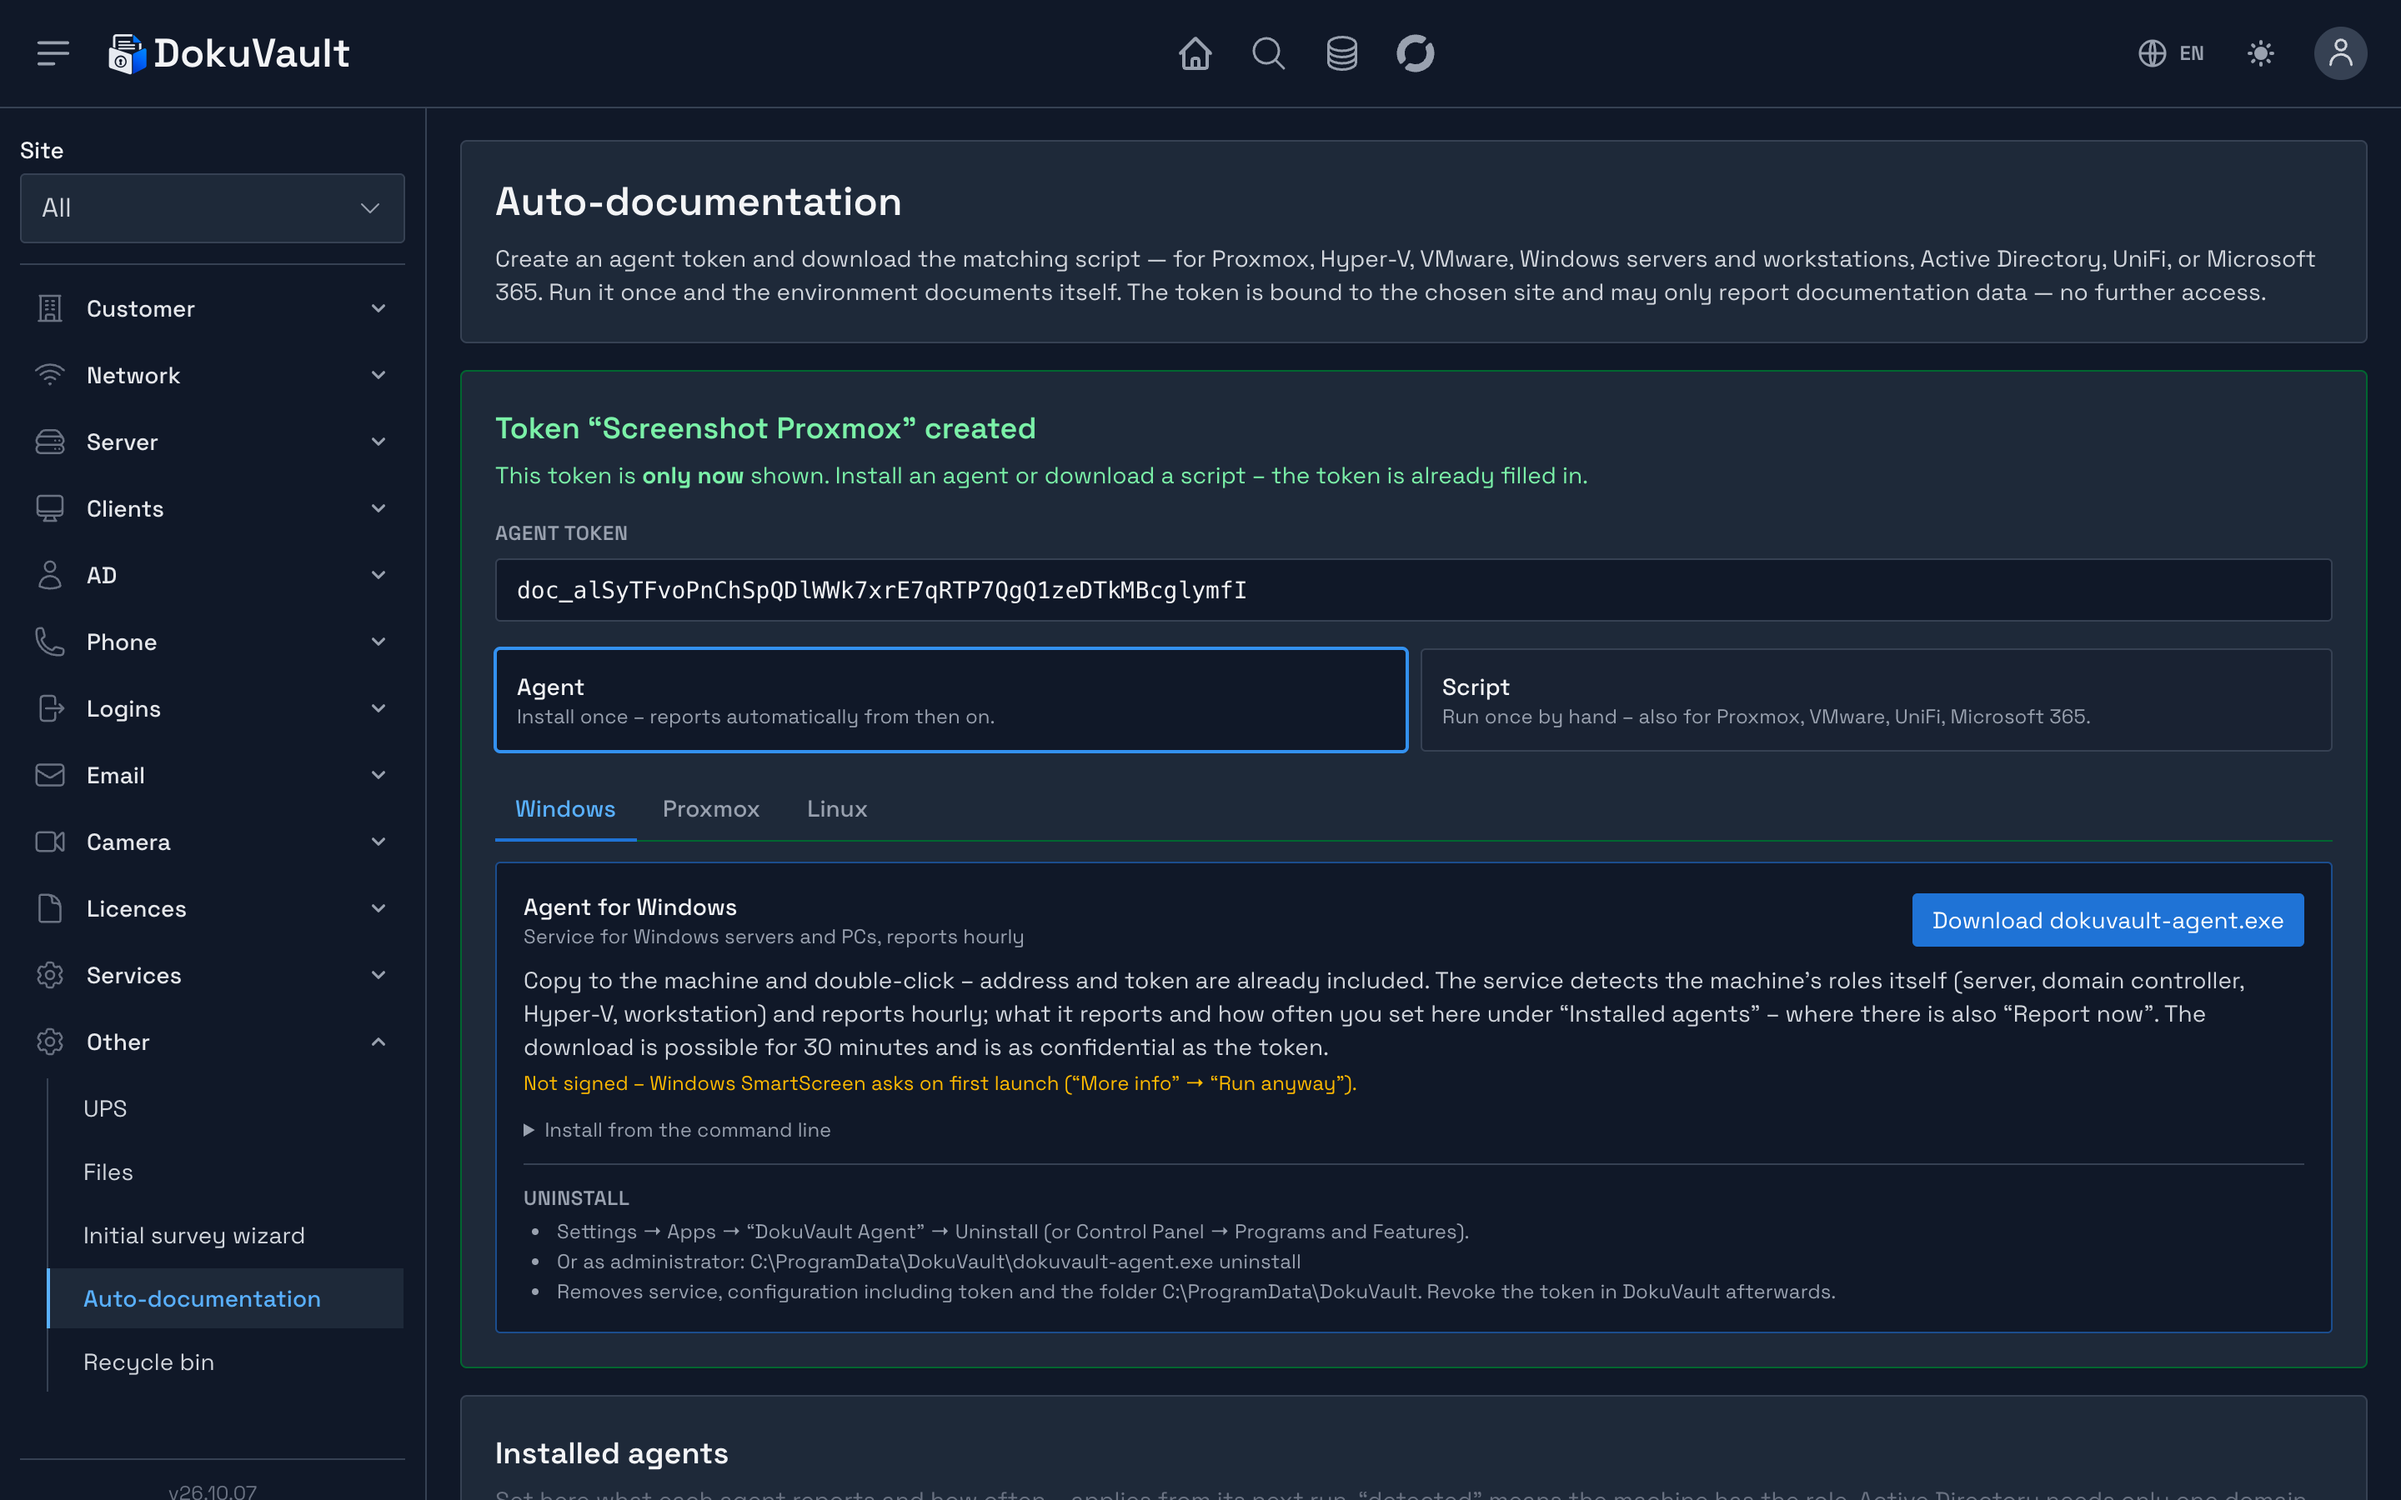
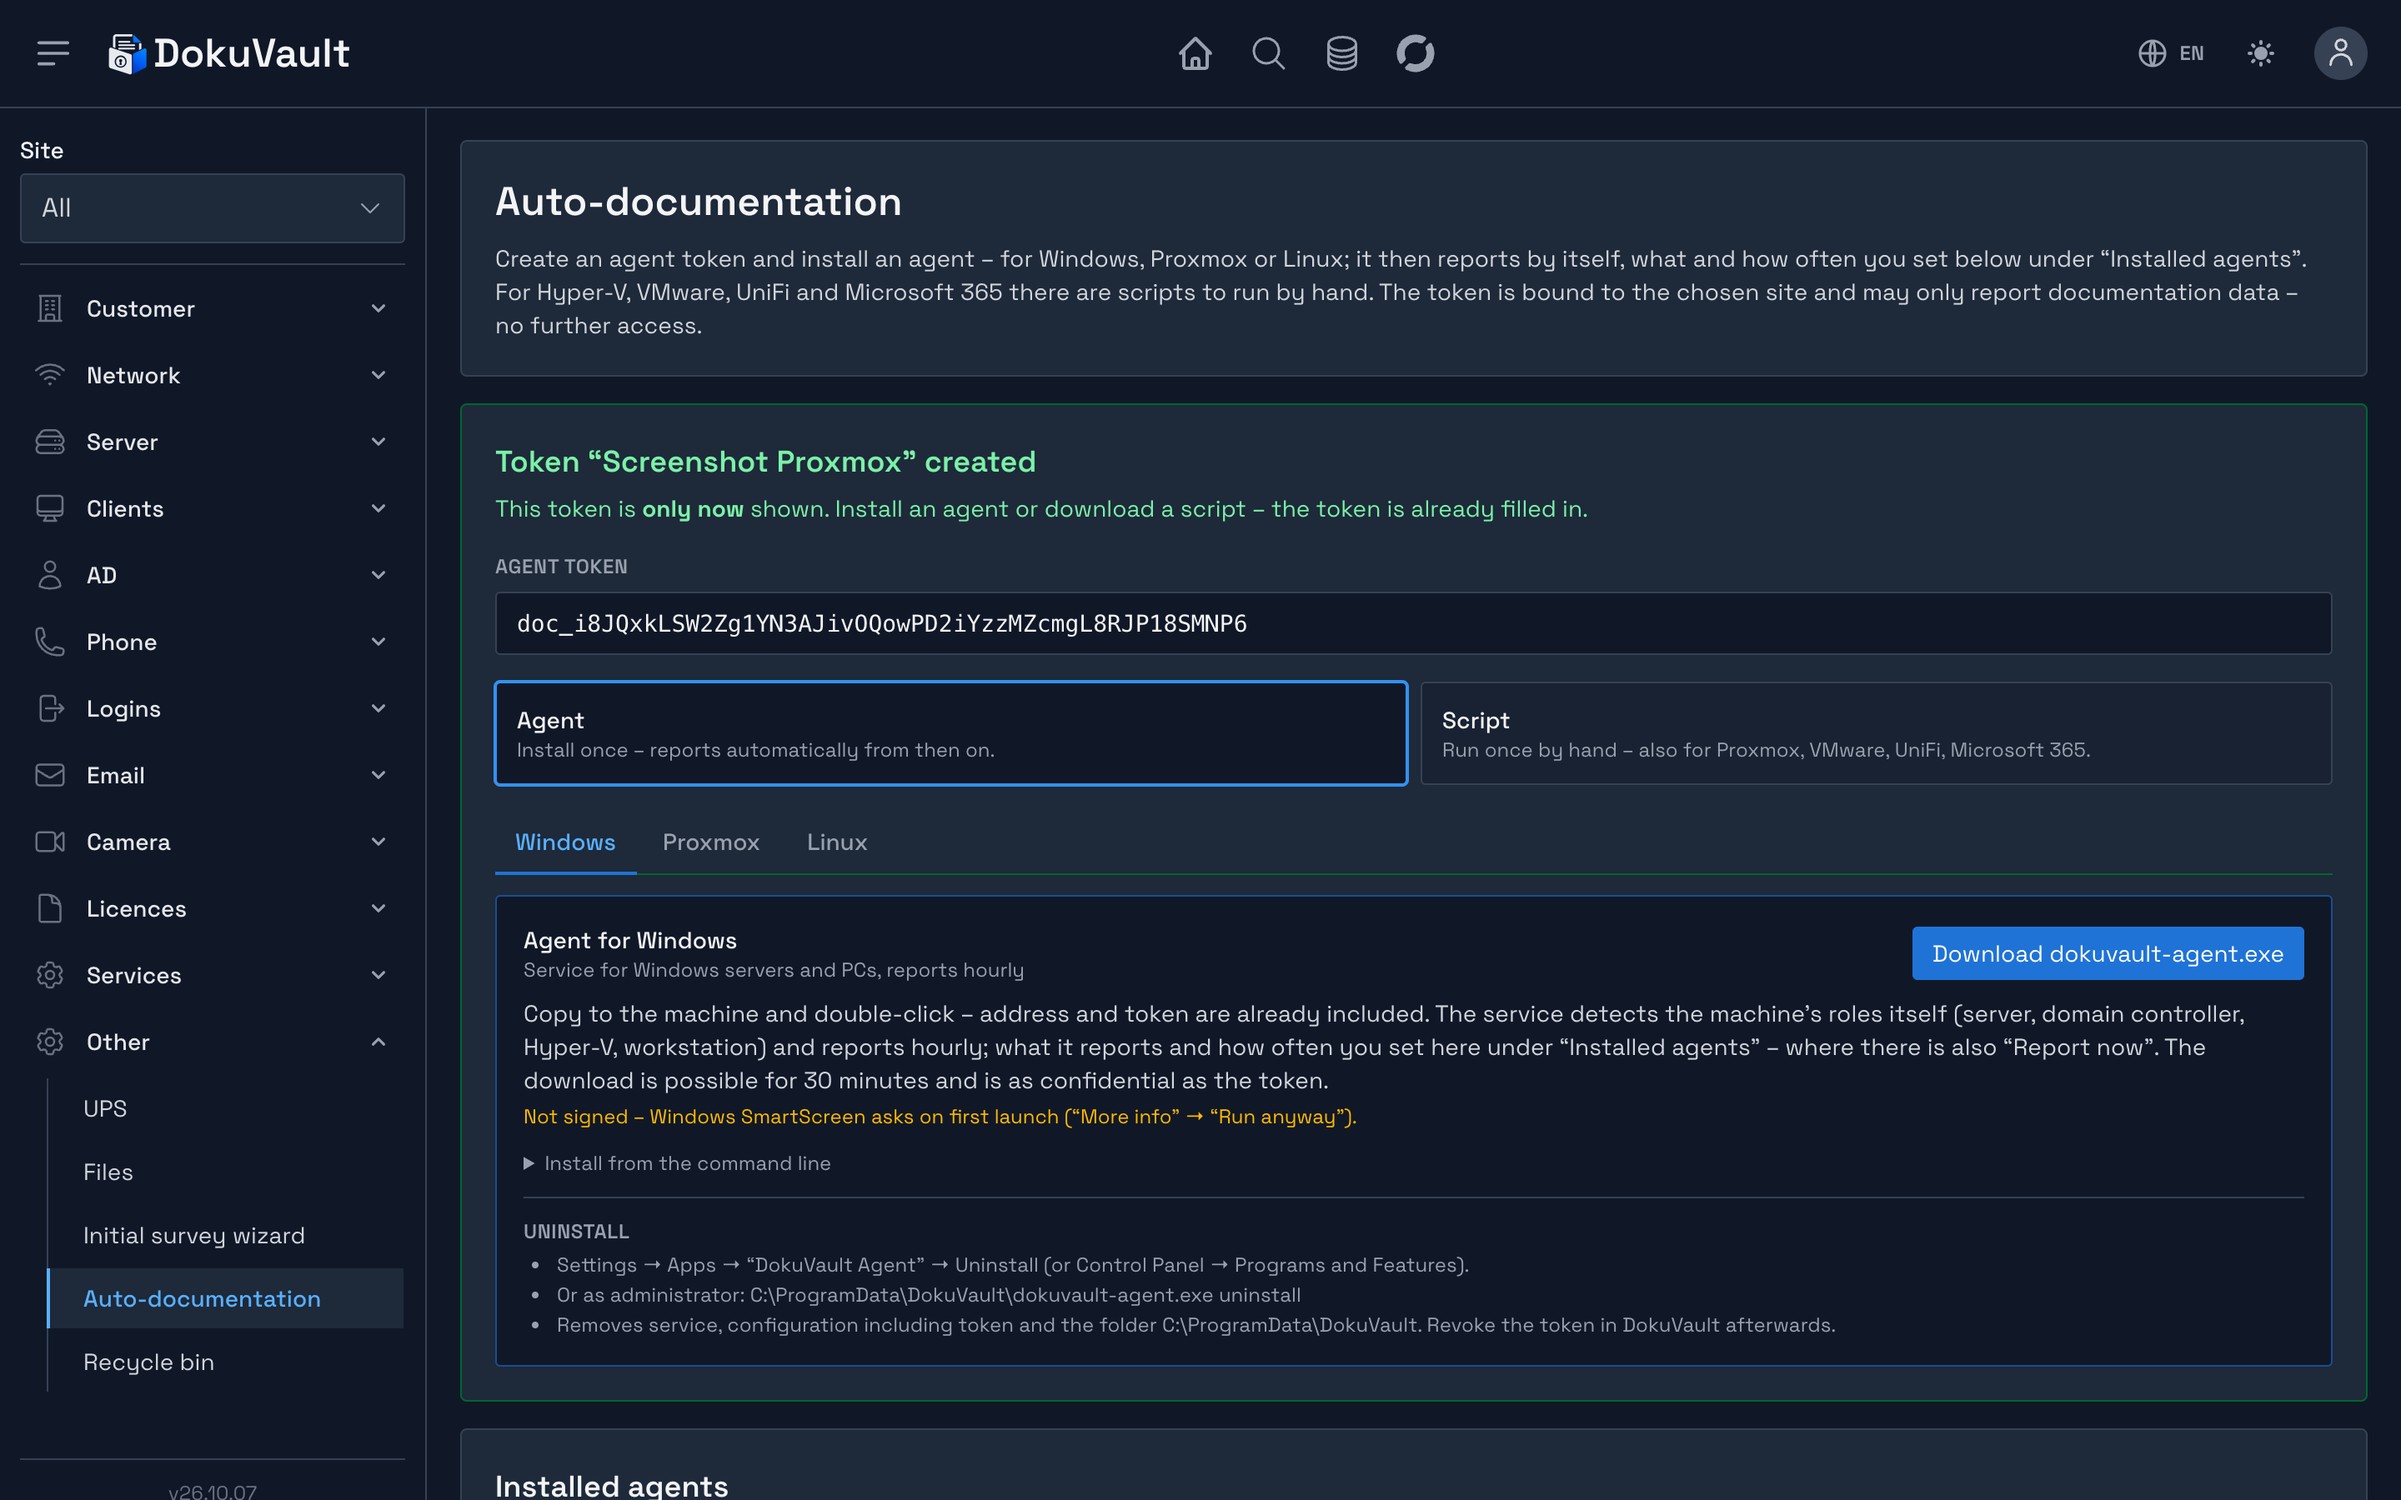
Agent-Seite: Einleitung beschreibt die installierten Agenten
Die Einleitung sagte noch "lade das passende Script herunter" und die
README-Bildunterschrift "ein Token, acht Scripts" - beides aus der Zeit
vor den installierten Agenten. Jetzt zuerst Windows/Proxmox/Linux-Agent,
dann die Scripte; Uebersetzung und die zwei Bilder der Agent-Seite neu.

Changed region(s): [[0.1875, 0.28, 0.9688, 0.9333], [0.2188, 0.1556, 0.9688, 0.2489], [0.1875, 0.9644, 0.9688, 1.0]]

diff --git a/resources/views/agent/index.blade.php b/resources/views/agent/index.blade.php
@@ -5,7 +5,7 @@
         <x-panel>
             <div class="text-2xl font-CoconPro text-chathams-blue-800 dark:text-gray-100">{{ __('Auto-Dokumentation') }}</div>
             <p class="mt-2 text-sm text-gray-600 dark:text-gray-300">
-                {{ __('Erzeuge einen Agent-Token und lade das passende Script herunter – für Proxmox, Hyper-V, VMware, Windows-Server und -Arbeitsplatzrechner, Active Directory, UniFi oder Microsoft 365. Einmal ausgeführt, dokumentiert sich die Umgebung selbst. Der Token ist an den gewählten Standort gebunden und darf ausschließlich Dokumentationsdaten melden – kein weiterer Zugriff.') }}
+                {{ __('Erzeuge einen Agent-Token und installiere einen Agenten – für Windows, Proxmox oder Linux; er meldet danach von selbst, was und wie oft du unten unter „Installierte Agenten“ festlegst. Für Hyper-V, VMware, UniFi und Microsoft 365 gibt es Scripte zum Ausführen von Hand. Der Token ist an den gewählten Standort gebunden und darf ausschließlich Dokumentationsdaten melden – kein weiterer Zugriff.') }}
             </p>
         </x-panel>
 

diff --git a/changelog.md b/changelog.md
@@ -11,6 +11,7 @@
 
 ### Changed
 
+- **Agent-Seite: Einleitung beschreibt die installierten Agenten** statt nur „Script herunterladen“; die Bildunterschrift im README („ein Token, acht Scripts“) ebenso.
 - **README und Screenshots überarbeitet.** Neue Abschnitte zu den installierten Agenten (Windows-Dienst, Proxmox, Linux – Rollen, Intervall, „Jetzt melden“, Ergebnisse, Selbst-Update, Signatur), Backup-Überwachung, Statistik, eigener Sicherung und den neuen Sicherheitsmerkmalen; sieben neue Bilder (installierte Agenten, Backups, API-Auslastung, Agenten, Datenwachstum, Backup-Einstellungen, AD-Gruppen), alle übrigen neu aufgenommen.
 - **Demo zeigt die neuen Funktionen.** Installierte Agenten (einer still, ein fehlgeschlagener Veeam-Job, eine alte Version), zwei Wochen Backup-Läufe samt Proxmox-vzdump-Job, eine Woche API-Statistik, 90 Tage Verlauf für Statistik, AD-Gruppen mit echten Namen und Mitgliedern statt Faker-Text, Zeitzone Europe/Berlin (`DemoAgentSeeder`, `DemoStatistikSeeder`).
 - **Installierte Agenten: Rollen und Knöpfe in zwei Zeilen.** Bei sechs Windows-Rollen brach „Speichern“ allein um und „Jetzt melden“/„Entfernen“ landeten darunter; jetzt stehen die Rollen oben und Intervall, „Speichern“, „Jetzt melden“ und „Entfernen“ immer in einer Reihe.

diff --git a/README.md b/README.md
@@ -67,7 +67,7 @@ MSPs lose time to scattered spreadsheets, stale wikis and “where did we write 
     <td width="50%"><img src="docs/screenshots/en/ipam.png" alt="IPAM"><br><sub><b>IPAM</b> – used, free and reserved addresses per VLAN, each range in its own colour</sub></td>
   </tr>
   <tr>
-    <td width="50%"><img src="docs/screenshots/en/autodoc.png" alt="Auto-documentation"><br><sub><b>Auto-documentation</b> – one token, eight scripts: create, run, done</sub></td>
+    <td width="50%"><img src="docs/screenshots/en/autodoc.png" alt="Auto-documentation"><br><sub><b>Auto-documentation</b> – one token for agents and scripts: create, install, done</sub></td>
     <td width="50%"><img src="docs/screenshots/en/certificates.png" alt="Certificates"><br><sub><b>SSL/TLS certificates</b> – with an expiry warning on the dashboard</sub></td>
   </tr>
   <tr>

diff --git a/README.de.md b/README.de.md
@@ -68,7 +68,7 @@ immer aktuell.
     <td width="50%"><img src="docs/screenshots/ipam.png" alt="IPAM"><br><sub><b>IPAM</b> – belegte, freie und reservierte Adressen je VLAN, jeder Bereich in eigener Farbe</sub></td>
   </tr>
   <tr>
-    <td width="50%"><img src="docs/screenshots/autodoc.png" alt="Auto-Dokumentation"><br><sub><b>Auto-Dokumentation</b> – ein Token, acht Scripts: erzeugen, ausführen, fertig</sub></td>
+    <td width="50%"><img src="docs/screenshots/autodoc.png" alt="Auto-Dokumentation"><br><sub><b>Auto-Dokumentation</b> – ein Token für Agenten und Scripte: erzeugen, installieren, fertig</sub></td>
     <td width="50%"><img src="docs/screenshots/certificates.png" alt="Zertifikate"><br><sub><b>SSL/TLS-Zertifikate</b> – mit Ablauf-Warnung im Dashboard</sub></td>
   </tr>
   <tr>
